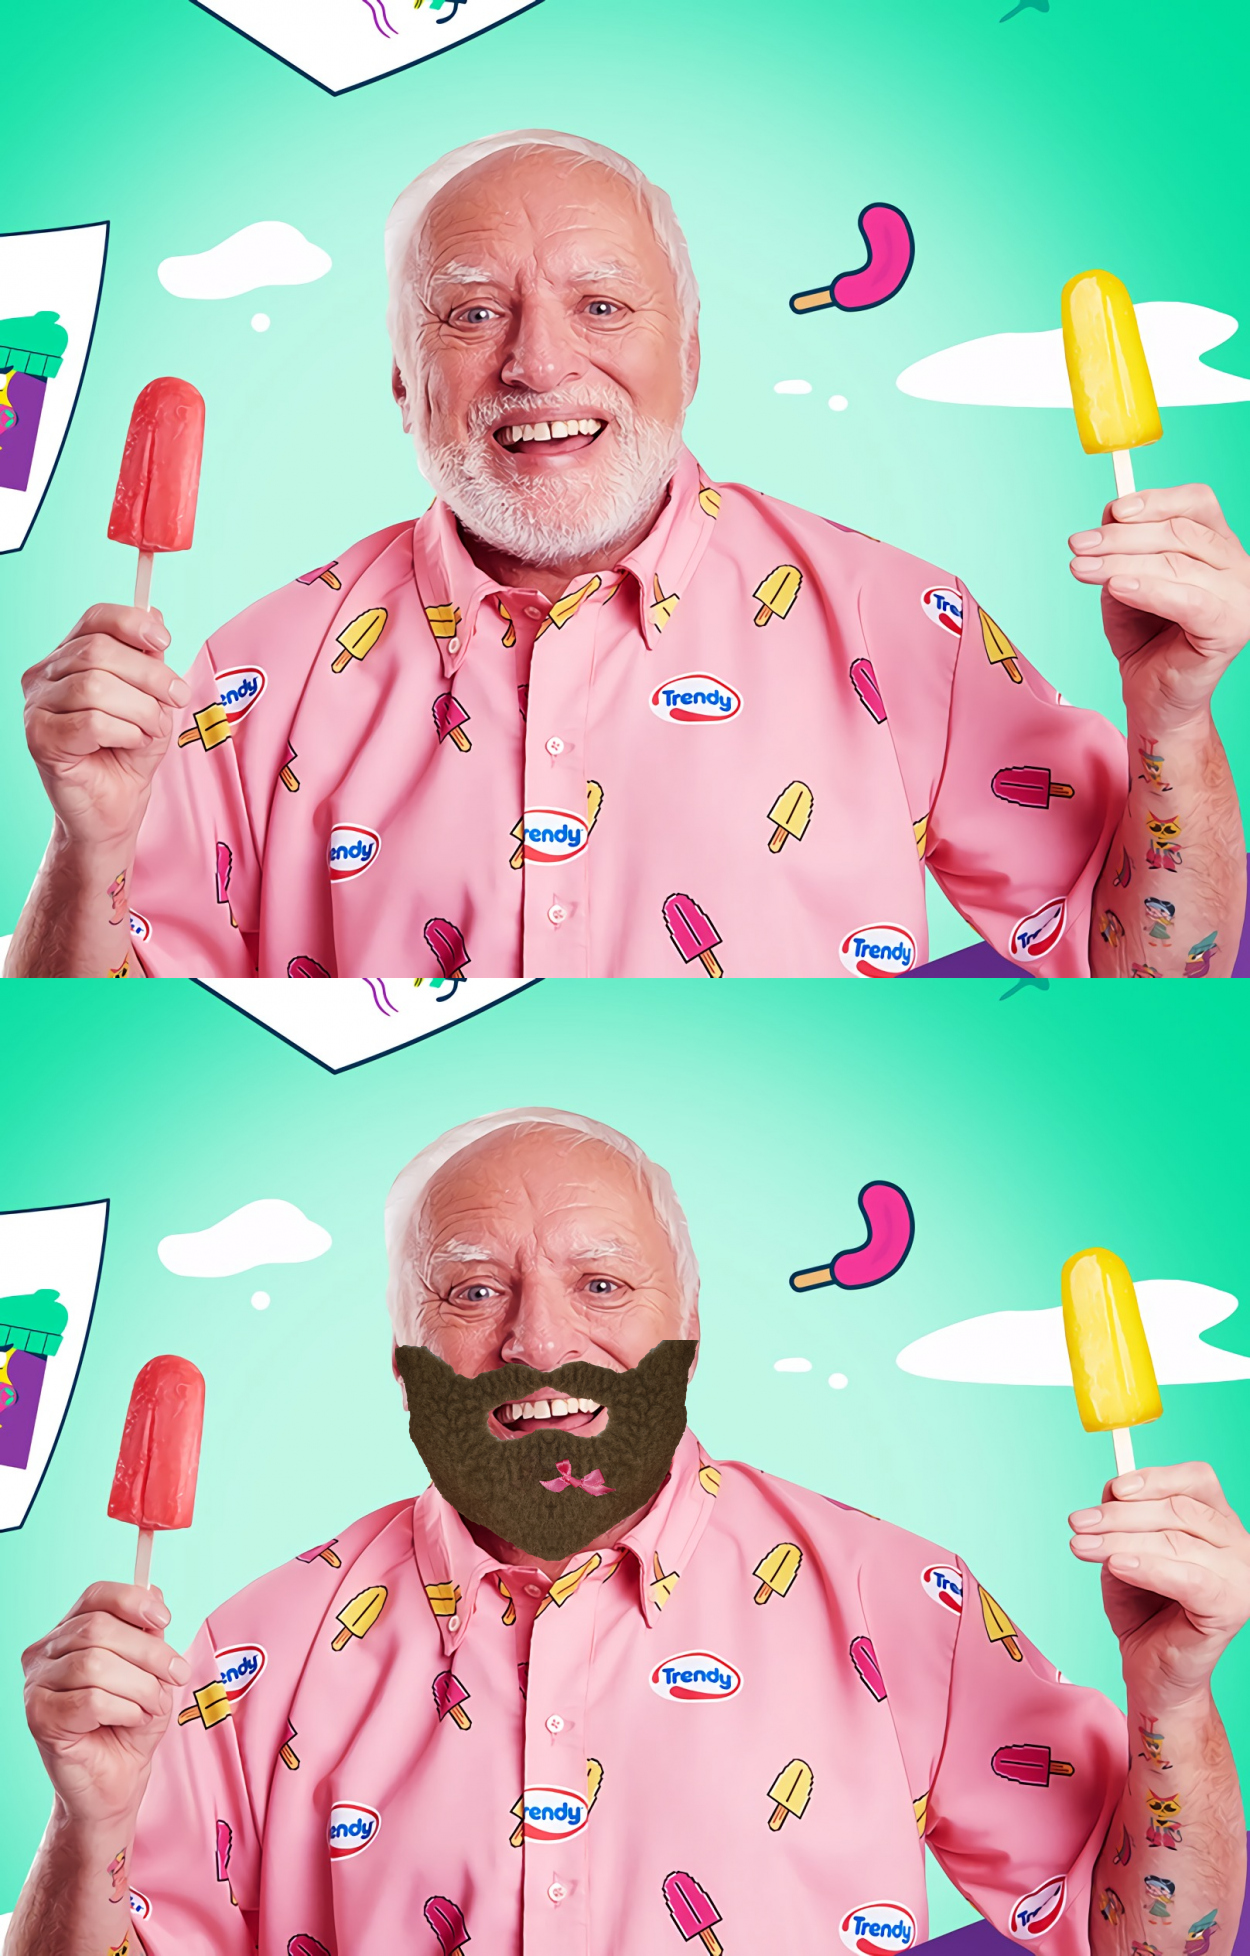
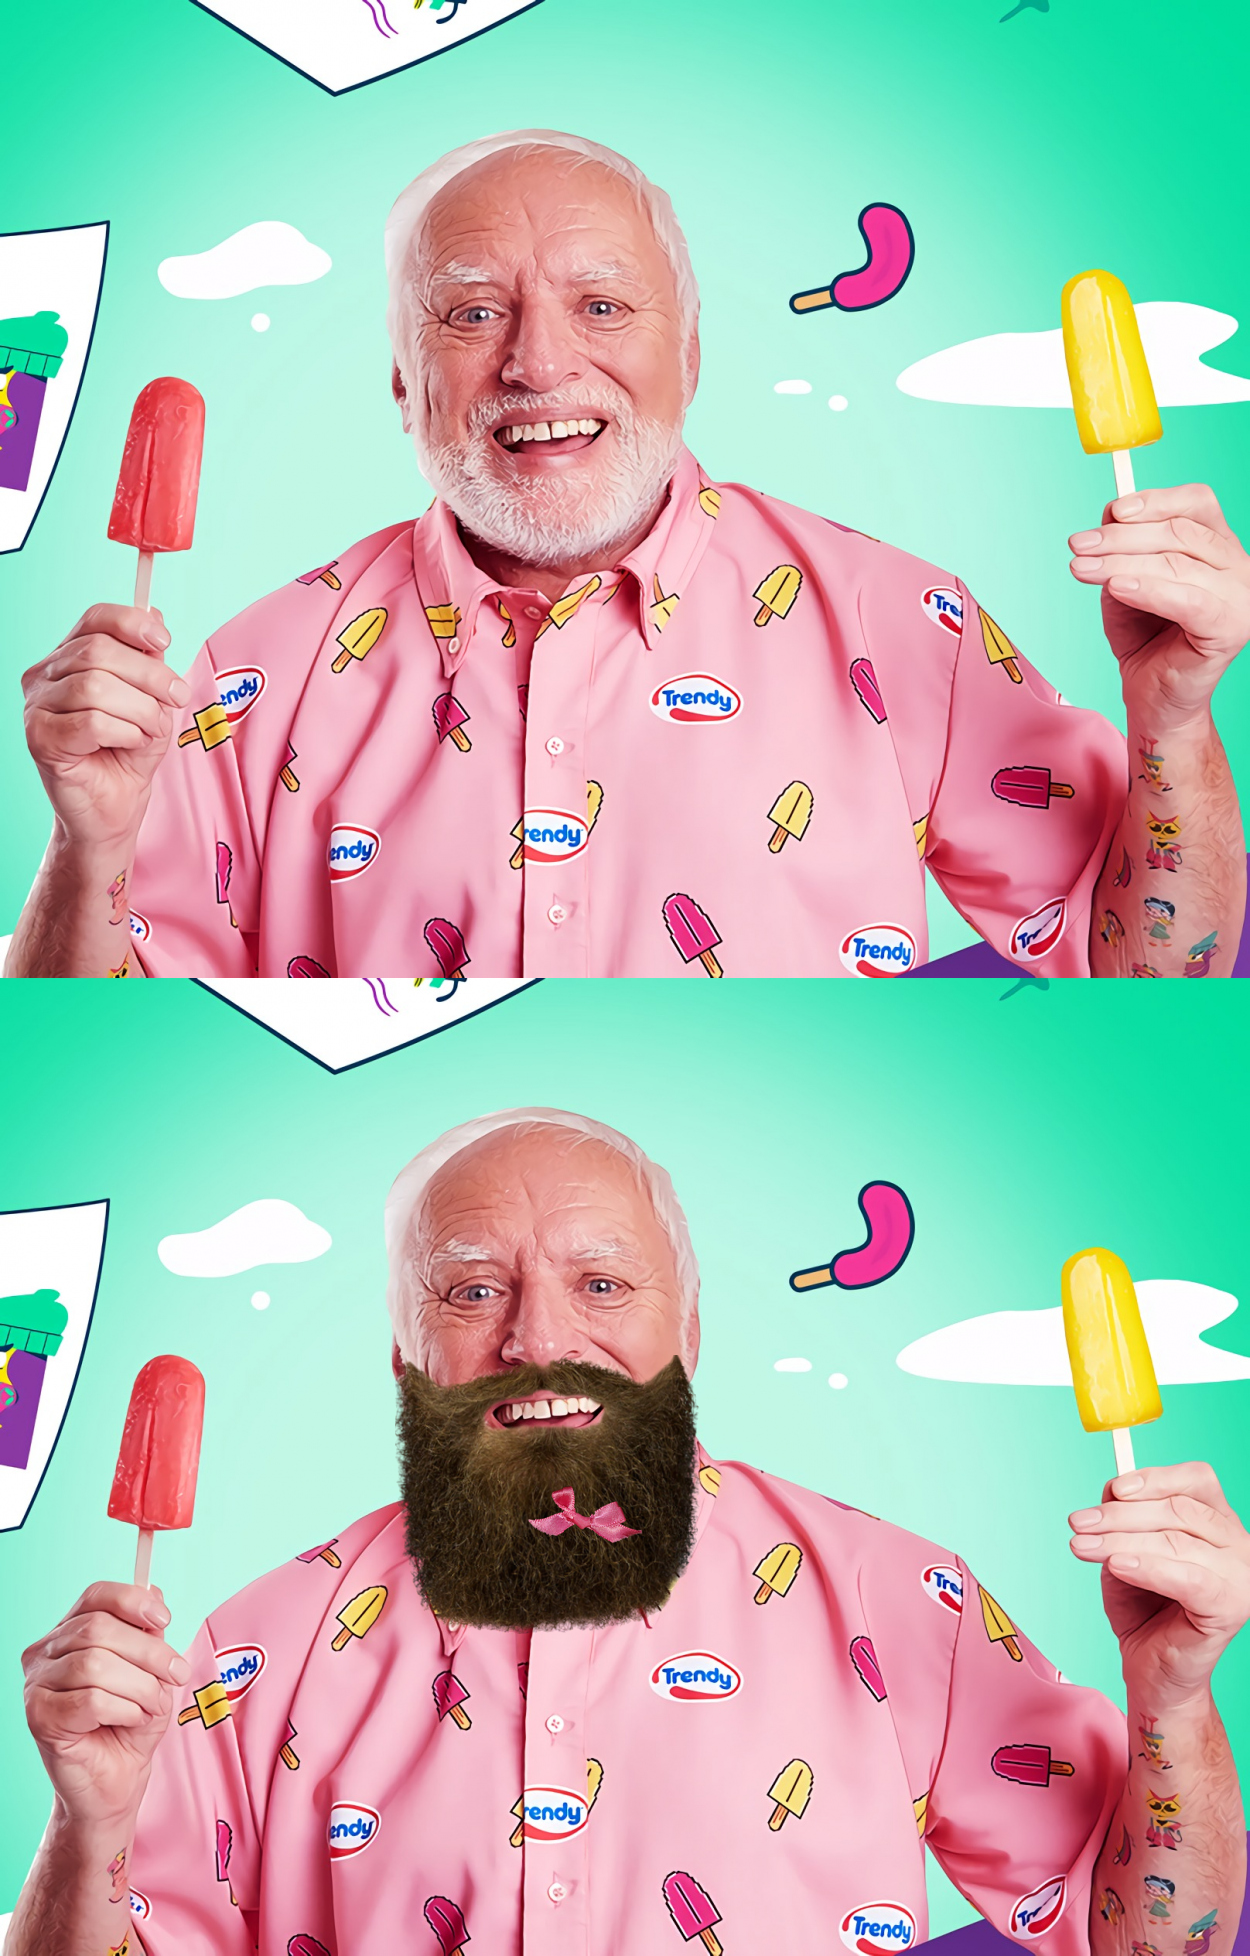
Add new beard styles
* Add `--style` parameter to CLI
* Add new beard images
* Add style.py for styling and offset

Changed region(s): [[0.312, 0.6861, 0.5616, 0.842]]

diff --git a/spillybeard/beard.py b/spillybeard/beard.py
@@ -4,21 +4,24 @@ import os
 import face_recognition  # lol, of course python can do this
 
 from PIL import Image
+from spillybeard.styles import STYLES as styles
 
 
 def output_path(output_directory, source_path):
     filename = os.path.splitext(os.path.basename(source_path))[0]
-    output_path = os.path.join(output_directory, f"{filename}_bearded.png")
+    expanded_directory = os.path.expanduser(output_directory)
+    output_path = os.path.join(expanded_directory, f"{filename}_bearded.png")
     return output_path
 
 
-def get_beard(beard_index=0):
+def get_beard(stylename, beard_index=0):
+    style = styles.get(stylename)
     here = os.path.dirname(__file__)
-    beard_repository = os.path.join(here, "beards")
+    beard_repository = os.path.join(here, "beards", style["beard_dir"])
     all_beards = sorted(glob.glob(os.path.join(beard_repository, "*.png")))
     this_friendos_unique_beard = all_beards[beard_index % len(all_beards)]
     beard = Image.open(this_friendos_unique_beard)
-    return beard
+    return beard, style
 
 
 def centroid(points):
@@ -36,7 +39,7 @@ def angle(left, right):
     return -1 * math.degrees(radians)
 
 
-def embearden(filepath):
+def embearden(filepath, style="real"):
     """Turn a pic of frens into SpillyWilly fans.
 
     Args:
@@ -45,7 +48,8 @@ def embearden(filepath):
     Returns:
         (PIL Image): A picture of frens with beards
     """
-    filepath = os.path.expanduser(filepath)
+    if isinstance(filepath, str):
+        filepath = os.path.expanduser(filepath)
 
     # Load the jpg file into a numpy array
     image = face_recognition.load_image_file(filepath)
@@ -53,10 +57,14 @@ def embearden(filepath):
     # Find all facial features in all the faces in the image
     face_landmarks_list = face_recognition.face_landmarks(image)
 
+    # If you find more than 50 faces, assume something has gone wrong
+    if not face_landmarks_list or len(face_landmarks_list) > 50:
+        return None
+
     pil_image = Image.fromarray(image)
     for index, face_landmarks in enumerate(face_landmarks_list):
         # Grab a personal beard
-        beard = get_beard(index)
+        beard, beard_style = get_beard(style, index)
 
         # Use the chin width to determine the beard size
         chin_left = face_landmarks["chin"][1]
@@ -66,22 +74,26 @@ def embearden(filepath):
         beard = beard.resize((beard_width, beard_height))
         beard = beard.rotate(angle(chin_left, chin_right))
 
-        # Center it around their pucker
-        mouth_points = face_landmarks["top_lip"] + face_landmarks["bottom_lip"]
-        mouth = centroid(mouth_points)
+        # Center it around their pucker/chin
+        center_points_list = [
+            face_landmarks[feature] for feature in beard_style["center"]
+        ]
+        # Simple replacement for itertools.chain
+        center_points = [
+            item for sublist in center_points_list for item in sublist]
+        center = centroid(center_points)
         attach_point = (
-            int(mouth[0] - beard.width / 2),
-            mouth[1] - int(0.32 * beard.height),  # mouth hole is ~1/3 down
+            int(center[0] - beard.width / 2),
+            center[1] - int(beard_style["offset"] * beard.height),
         )
-
         # Add it to the image
         pil_image.paste(beard, attach_point, beard)
     return pil_image
 
 
-def make_before_and_after(filepath, vertical=True):
+def make_before_and_after(filepath, style, vertical=True):
     before = Image.open(filepath)
-    after = embearden(filepath)
+    after = embearden(filepath, style)
     if vertical:
         result = Image.new("RGB", (before.width, before.height + after.height))
         result.paste(before, (0, 0))

diff --git a/spillybeard/cli.py b/spillybeard/cli.py
@@ -30,9 +30,19 @@ def entry_point(context):
     default=None,
     help="A place to keep bearded pics of your friendos.",
 )
-def embearden(filepath, output, before_and_after):
+@click.option(
+    "--style",
+    "-s",
+    type=click.Choice(["real", "mask", "nomouth", "mouth", "derp"]),
+    default="real",
+    help="Which beard style you want.",
+)
+def embearden(filepath, output, style):
     """ Slap a SpillyBeard on that mug. """
-    bearded_image = _beard.embearden(filepath)
+    bearded_image = _beard.embearden(filepath, style=style)
+    if bearded_image is None:
+        click.echo("Could not process this image!")
+        return
 
     if output is None:
         bearded_image.show()
@@ -52,13 +62,25 @@ def embearden(filepath, output, before_and_after):
     help="A place to keep bearded pics of your friendos.",
 )
 @click.option(
+    "--style",
+    "-s",
+    type=click.Choice(["real", "mask", "nomouth", "mouth", "derp"]),
+    default="real",
+    help="Which beard style you want.",
+)
+@click.option(
     "--vertical/--horizontal",
     default=True,
     help="You want ontop-guy, or a side-dealio?",
 )
-def before_and_after(filepath, output, vertical):
+def before_and_after(filepath, output, style, vertical):
     """ Show your pals their Spilly potential. """
-    bearded_image = _beard.make_before_and_after(filepath, vertical)
+    bearded_image = _beard.make_before_and_after(filepath, style, vertical)
+
+    if bearded_image is None:
+        click.echo("Could not process this image!")
+        return
+
     if output is None:
         bearded_image.show()
         return

diff --git a/spillybeard/styles.py b/spillybeard/styles.py
@@ -1,0 +1,27 @@
+STYLES = {
+    "real": {
+        "offset": 0.20,
+        "center": ["top_lip", "bottom_lip"],
+        "beard_dir": "real",
+    },
+    "mask": {
+        "offset": 0.32,
+        "center": ["top_lip", "bottom_lip"],
+        "beard_dir": "mask",
+    },
+    "nomouth": {
+        "offset": 0,
+        "center": ["nose_tip"],
+        "beard_dir": "nomouth",
+    },
+    "mouth": {
+        "offset": 0,
+        "center": ["nose_tip"],
+        "beard_dir": "mouth",
+    },
+    "derp": {
+        "offset": 0.38,
+        "center": ["chin"],
+        "beard_dir": "mouth",
+    },
+}

diff --git a/README.md b/README.md
@@ -35,27 +35,33 @@ brew install cmake && pip install .
 
 ## Usage
 ```
-$ spillybeard embearden --help
+spillybeard embearden --help
 Usage: spillybeard embearden [OPTIONS] FILEPATH
 
   Slap a SpillyBeard on that mug.
 
 Options:
-  -o, --output PATH  A place to keep bearded pics of your friendos.
-  --help             Show this message and exit.
+  -o, --output PATH               A place to keep bearded pics of your
+                                  friendos.
+  -s, --style [real|mask|nomouth|mouth|derp]
+                                  Which beard style you want.
+  --help                          Show this message and exit.
 ```
 
 
 ```
-$ spillybeard before-and-after --help
+spillybeard before-and-after --help
 Usage: spillybeard before-and-after [OPTIONS] FILEPATH
 
   Show your pals their Spilly potential.
 
 Options:
-  -o, --output PATH          A place to keep bearded pics of your friendos.
-  --vertical / --horizontal  You want ontop-guy, or a side-dealio?
-  --help                     Show this message and exit.
+  -o, --output PATH               A place to keep bearded pics of your
+                                  friendos.
+  -s, --style [real|mask|nomouth|mouth|derp]
+                                  Which beard style you want.
+  --vertical / --horizontal       You want ontop-guy, or a side-dealio?
+  --help                          Show this message and exit.
 ```
 
 
@@ -77,6 +83,8 @@ Type "help", "copyright", "credits" or "license" for more information.
 ```
 
 ## Examples
-![harold](sample/output/harold_bearded.png)
 ![friendos](sample/output/friendos_bearded.png)
+![showcase1](sample/output/showcase1.png)
+![showcase2](sample/output/showcase2.png)
+![showcase3](sample/output/showcase3.png)
 
